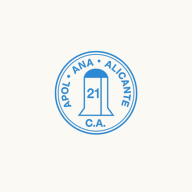
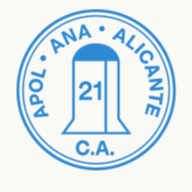
App: icono del club mas grande, etiquetas de la barra (Inicio/Entrenos/Calendario/Pagos/Mas) y boton Volver dentro de la app
- iconos PWA: el sello llena el cuadro (antes se veia pequeno por el margen)
- portal/atleta: barra inferior con Inicio, Entrenos, Calendario, Pagos, Mas; Mis marcas pasa al panel Mas
- apolana.js: boton flotante Volver que solo aparece en la app instalada (modo standalone)

Changed region(s): [[0.0625, 0.0312, 0.9375, 0.9062]]

diff --git a/portal/atleta/index.html b/portal/atleta/index.html
@@ -395,6 +395,7 @@ APOLANA_PORTAL.listo(async function (sb, perfil) {
   var icHoy    = svg('<path d="M3 11l9-7 9 7"/><path d="M5 10v10h14V10"/>');
   var icSemana = svg('<rect x="3.5" y="5" width="17" height="16" rx="2"/><path d="M3.5 9.5h17M8 3v4M16 3v4"/>');
   var icMarcas = svg('<circle cx="12" cy="14" r="7"/><path d="M12 14V10M10 3h4M18.5 7l1.4-1.4"/>');
+  var icEntreno = svg('<path d="M3 12h3l2-6 4 12 2.5-7 1.5 3H21"/>');
   var icPagos  = svg('<rect x="3" y="6" width="18" height="12" rx="2"/><path d="M3 10h18M7 15h4"/>');
   var icMas    = svg('<circle cx="6" cy="12" r="1.7"/><circle cx="12" cy="12" r="1.7"/><circle cx="18" cy="12" r="1.7"/>','currentColor');
   var icTrofeo = svg('<path d="M8 4h8v4a4 4 0 0 1-8 0V4zM6 4H4v2a3 3 0 0 0 3 3M18 4h2v2a3 3 0 0 1-3 3M9 15h6M10 19h4M12 15v4"/>');
@@ -404,9 +405,9 @@ APOLANA_PORTAL.listo(async function (sb, perfil) {
 
   var tabbar =
     '<nav class="tabbar">'+
-      '<a data-sec="hoy" class="activo">'+icHoy+'Hoy</a>'+
-      '<a data-sec="entreno">'+icSemana+'Semana</a>'+
-      '<a data-sec="marcas">'+icMarcas+'Marcas</a>'+
+      '<a data-sec="hoy" class="activo">'+icHoy+'Inicio</a>'+
+      '<a data-sec="entreno">'+icEntreno+'Entrenos</a>'+
+      '<a href="../calendario/">'+icSemana+'Calendario</a>'+
       '<a data-sec="pagos">'+icPagos+'Pagos</a>'+
       '<a data-mas>'+icMas+'Más</a>'+
     '</nav>';
@@ -415,7 +416,7 @@ APOLANA_PORTAL.listo(async function (sb, perfil) {
       '<div class="mas-fondo" data-cerrar></div>'+
       '<div class="mas-caja">'+
         '<div class="mas-cab"><b>Más</b><button type="button" data-cerrar>Cerrar</button></div>'+
-        '<a href="../calendario/">'+icSemana+'<span>Calendario</span><em>&rsaquo;</em></a>'+
+        '<a data-sec="marcas">'+icMarcas+'<span>Mis marcas</span><em>&rsaquo;</em></a>'+
         '<a href="../competiciones/">'+icTrofeo+'<span>Competiciones</span><em>&rsaquo;</em></a>'+
         '<a href="../cubo/">'+icCubo+'<span>El Cubo</span><em>&rsaquo;</em></a>'+
         '<a href="../../tienda/">'+icBolsa+'<span>Tienda del club</span><em>&rsaquo;</em></a>'+
@@ -470,7 +471,7 @@ APOLANA_PORTAL.listo(async function (sb, perfil) {
   // ---------- navegación por secciones ----------
   var SECCIONES=['hoy','entreno','marcas','pagos'];
   // La barra lateral (escritorio) y la barra inferior (móvil) comparten la misma lógica.
-  var navLinks = wrap.querySelectorAll('.side nav a[data-sec], .tabbar a[data-sec]');
+  var navLinks = wrap.querySelectorAll('.side nav a[data-sec], .tabbar a[data-sec], #masheet a[data-sec]');
   function activarSeccion(sec){
     wrap.querySelectorAll('.side nav a, .tabbar a').forEach(function(x){ x.classList.toggle('activo', x.getAttribute('data-sec')===sec); });
     SECCIONES.forEach(function(s){ $('sec-'+s).hidden = (s!==sec); });

diff --git a/assets/js/apolana.js b/assets/js/apolana.js
@@ -183,3 +183,43 @@ document.addEventListener('DOMContentLoaded', async function () {
     else document.body.insertBefore(bar, document.body.firstChild);
   } catch (e) { /* si falla, no pasa nada: no se muestra aviso */ }
 });
+
+/* ==========================================================================
+   BOTÓN "VOLVER" PARA LA APP INSTALADA
+   Cuando la web se abre dentro de la app del club (modo standalone, sin barra
+   del navegador) no hay botón atrás. Este pequeño botón deja volver al portal
+   con un toque. En el navegador normal NO aparece.
+   ========================================================================== */
+(function () {
+  function esApp() {
+    try {
+      return window.navigator.standalone === true ||
+        (window.matchMedia && window.matchMedia('(display-mode: standalone)').matches);
+    } catch (e) { return false; }
+  }
+  if (!esApp()) return;
+  var base = window.APOLANA_BASE || '/';
+  // En las páginas del portal ya hay barra propia: no hace falta el botón.
+  if (/\/portal\//.test(location.pathname)) return;
+
+  document.addEventListener('DOMContentLoaded', function () {
+    var b = document.createElement('button');
+    b.type = 'button';
+    b.setAttribute('aria-label', 'Volver al portal');
+    b.innerHTML = '<span aria-hidden="true">←</span> Volver';
+    b.style.cssText = [
+      'position:fixed', 'z-index:9500',
+      'top:calc(10px + env(safe-area-inset-top))', 'left:12px',
+      'display:inline-flex', 'align-items:center', 'gap:6px',
+      'background:#2E4256', 'color:#fff', 'border:0', 'cursor:pointer',
+      'font-family:inherit', 'font-size:14px', 'font-weight:600',
+      'padding:9px 15px', 'border-radius:999px',
+      'box-shadow:0 4px 14px rgba(46,66,86,.28)'
+    ].join(';');
+    b.addEventListener('click', function () {
+      if (history.length > 1) history.back();
+      else location.assign(base + 'portal/');
+    });
+    document.body.appendChild(b);
+  });
+})();
